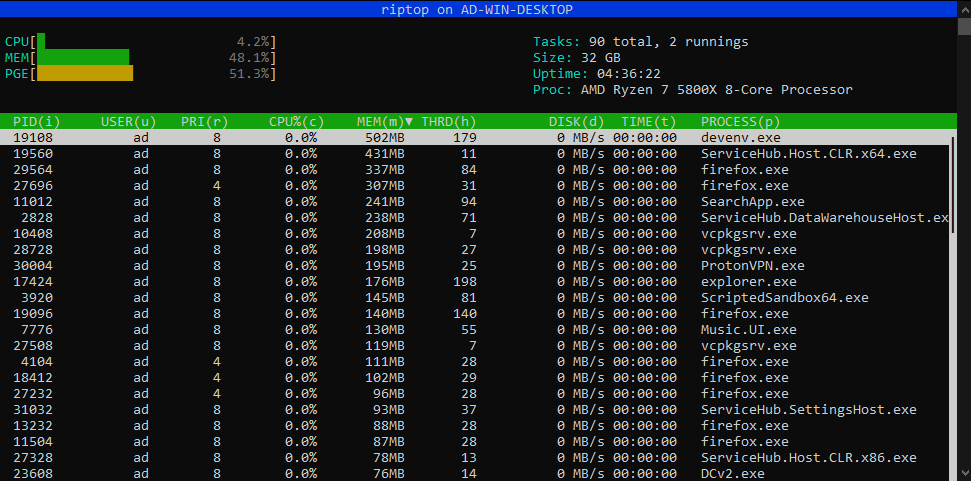
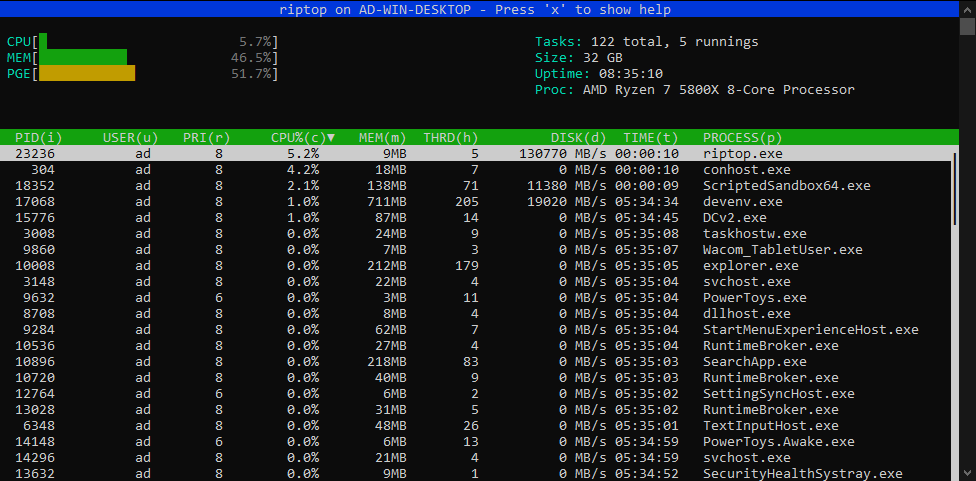
Add licence file. Update README with new usages. Update screen shot.

diff --git a/README.md b/README.md
@@ -14,6 +14,8 @@ Run `riptop.exe`.
 
 Press 'q' for exiting.
 
+Press 'x' to show help.
+
 ### Move in process list
 - Up or 'k' key for going up.
 - Down or 'j' key for going down.
@@ -24,9 +26,17 @@ Press 'q' for exiting.
 - Press key in parenthesis in column name 
 - Press again to change sorting order
 
+### Search process by name
+
+1. Press '/' to show search bar. 
+2. Enter process name and press RETURN.
+3. ESCAPE for closing search bar.
 
 
 ## Build instructions:
+
+Tested with Visual Studio 2019.
+
 ```powershell
 mkdir build
 cd build
@@ -52,4 +62,10 @@ main -->-->-----UI thread ----------->------------------- Receives probes data -
 * [FTXUI library](https://github.com/ArthurSonzogni/ftxui) for terminal UI.
 * [WIL (Windows Implementation Libraries)](https://github.com/microsoft/wil) for accessing Windows API in a modern safe C++ way.
 * [Catch2](https://github.com/catchorg/Catch2) for unit tests.
+
+
+## Similar projects and inspiration
+
+* [NTop](https://github.com/gsass1/NTop) written in C.
+* [bottom](https://github.com/clementtsang/bottom) written in Rust.
 
